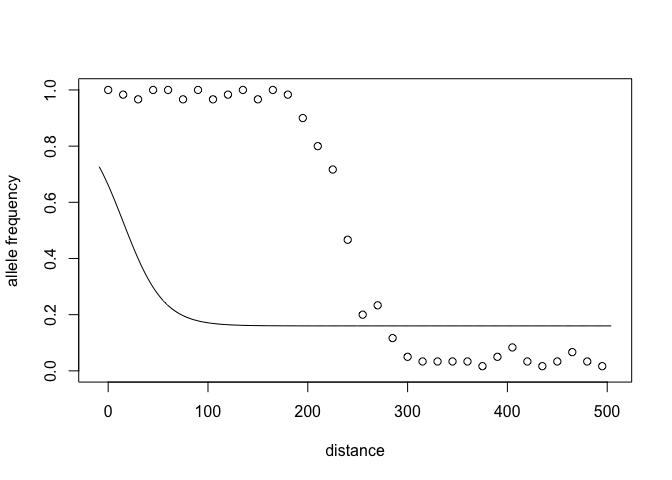
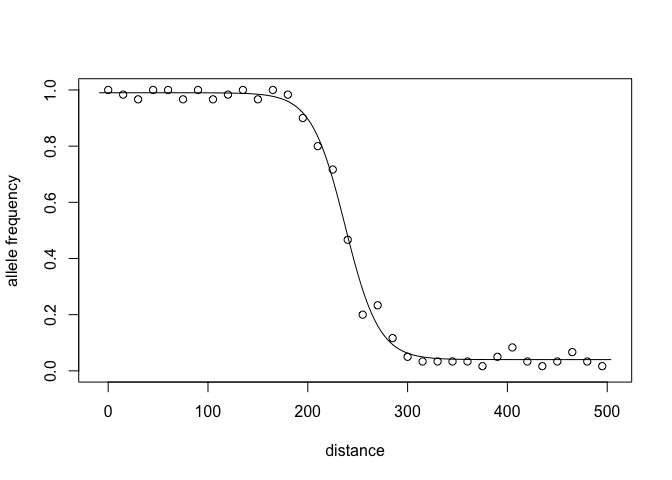
Some readme fixes for example plots

diff --git a/README.md b/README.md
@@ -74,13 +74,6 @@ With our data and priors ready, we can now fit a cline model. For now, we will f
 set.seed(456)
 cline.fit <- fit_geno_cline(data = data, prior_file = "prior_config_template.yaml",
                             type = "bi", tails = "none")
-#> Warning: There were 2080 divergent transitions after warmup. Increasing adapt_delta above 0.95 may help. See
-#> http://mc-stan.org/misc/warnings.html#divergent-transitions-after-warmup
-#> Warning: There were 1001 transitions after warmup that exceeded the maximum treedepth. Increase max_treedepth above 10. See
-#> http://mc-stan.org/misc/warnings.html#maximum-treedepth-exceeded
-#> Warning: There were 2 chains where the estimated Bayesian Fraction of Missing Information was low. See
-#> http://mc-stan.org/misc/warnings.html#bfmi-low
-#> Warning: Examine the pairs() plot to diagnose sampling problems
 ```
 
 #### Analyze the results
@@ -89,12 +82,12 @@ We can summarize the posterior distribution of the cline parameters:
 
 ``` r
 cline_summary(cline.fit)
-#>    param    mean se_mean      sd low_0.95_HPDI up_0.95_HPDI n_eff Rhat
-#> 1 center   15.04   94.54  135.65       -104.41       239.14     2 6.38
-#> 2  width   81.15   52.10  138.89          4.21       401.22     7 1.49
-#> 3   pmin    0.16    0.04    0.07          0.03         0.20     2 3.26
-#> 4   pmax    0.90    0.04    0.06          0.80         0.99     2 4.08
-#> 5    dev 2142.53  790.45 1145.03        112.82      3000.82     2 5.43
+#>    param   mean se_mean   sd low_0.95_HPDI up_0.95_HPDI n_eff Rhat
+#> 1 center 237.48    0.04 2.41        232.50       242.03  4272    1
+#> 2  width  67.62    0.09 6.01         56.19        79.63  4577    1
+#> 3   pmin   0.04    0.00 0.01          0.03         0.05  4575    1
+#> 4   pmax   0.99    0.00 0.00          0.98         0.99  5085    1
+#> 5    dev 116.04    0.07 2.86        112.21       121.59  1740    1
 ```
 
 The model has done a good job. The point estimates of the parameters are quite close to the values we specified, and the 95% credible intervals contain the simulated values.
@@ -116,12 +109,12 @@ head(pred_cline)
 #> # A tibble: 6 x 2
 #>   transectDist     p
 #>          <dbl> <dbl>
-#> 1        -9    0.727
-#> 2        -8.48 0.723
-#> 3        -7.96 0.720
-#> 4        -7.44 0.716
-#> 5        -6.93 0.713
-#> 6        -6.41 0.709
+#> 1        -9    0.990
+#> 2        -8.48 0.990
+#> 3        -7.96 0.990
+#> 4        -7.44 0.990
+#> 5        -6.93 0.990
+#> 6        -6.41 0.990
 ```
 
 ``` r
@@ -130,7 +123,8 @@ library(ggplot2)
 ggplot(data = pred_cline, aes(x = transectDist, y = p)) +
   geom_line(color = "orange") +
   xlab("distance along transect") +
-  ylab("allele frequency")
+  ylab("allele frequency") +
+  theme_classic()
 ```
 
 <img src="man/figures/README-unnamed-chunk-5-1.png" width="100%" />
